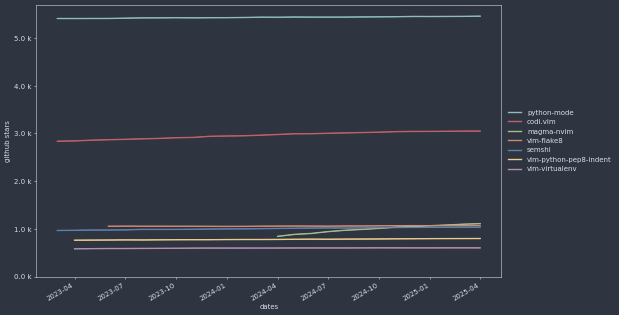
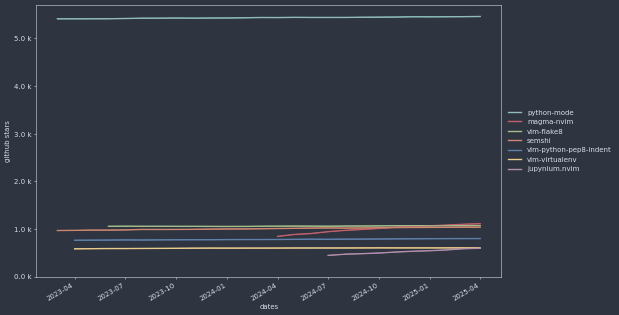
Add Read Eval Print Loop section.

diff --git a/plugins.md b/plugins.md
@@ -199,6 +199,14 @@ The [My Recommendations](#my-recommendations) section contains Vim plugins that 
 <img src="graphs/Rust.png" context="Rust" width="320"/>
 
 
+#### Read Eval Print Loop (REPL) (4.0)
+
+- [Codi.Vim](https://github.com/metakirby5/codi.vim)
+- [Jupyter-Vim](https://github.com/jupyter-vim/jupyter-vim) [My favorite]
+
+<img src="graphs/REPL.png" context="REPL" width="320"/>
+
+
 ### Dashboard (5.4)
 
 - [Vim-Startify](https://github.com/mhinz/vim-startify)
